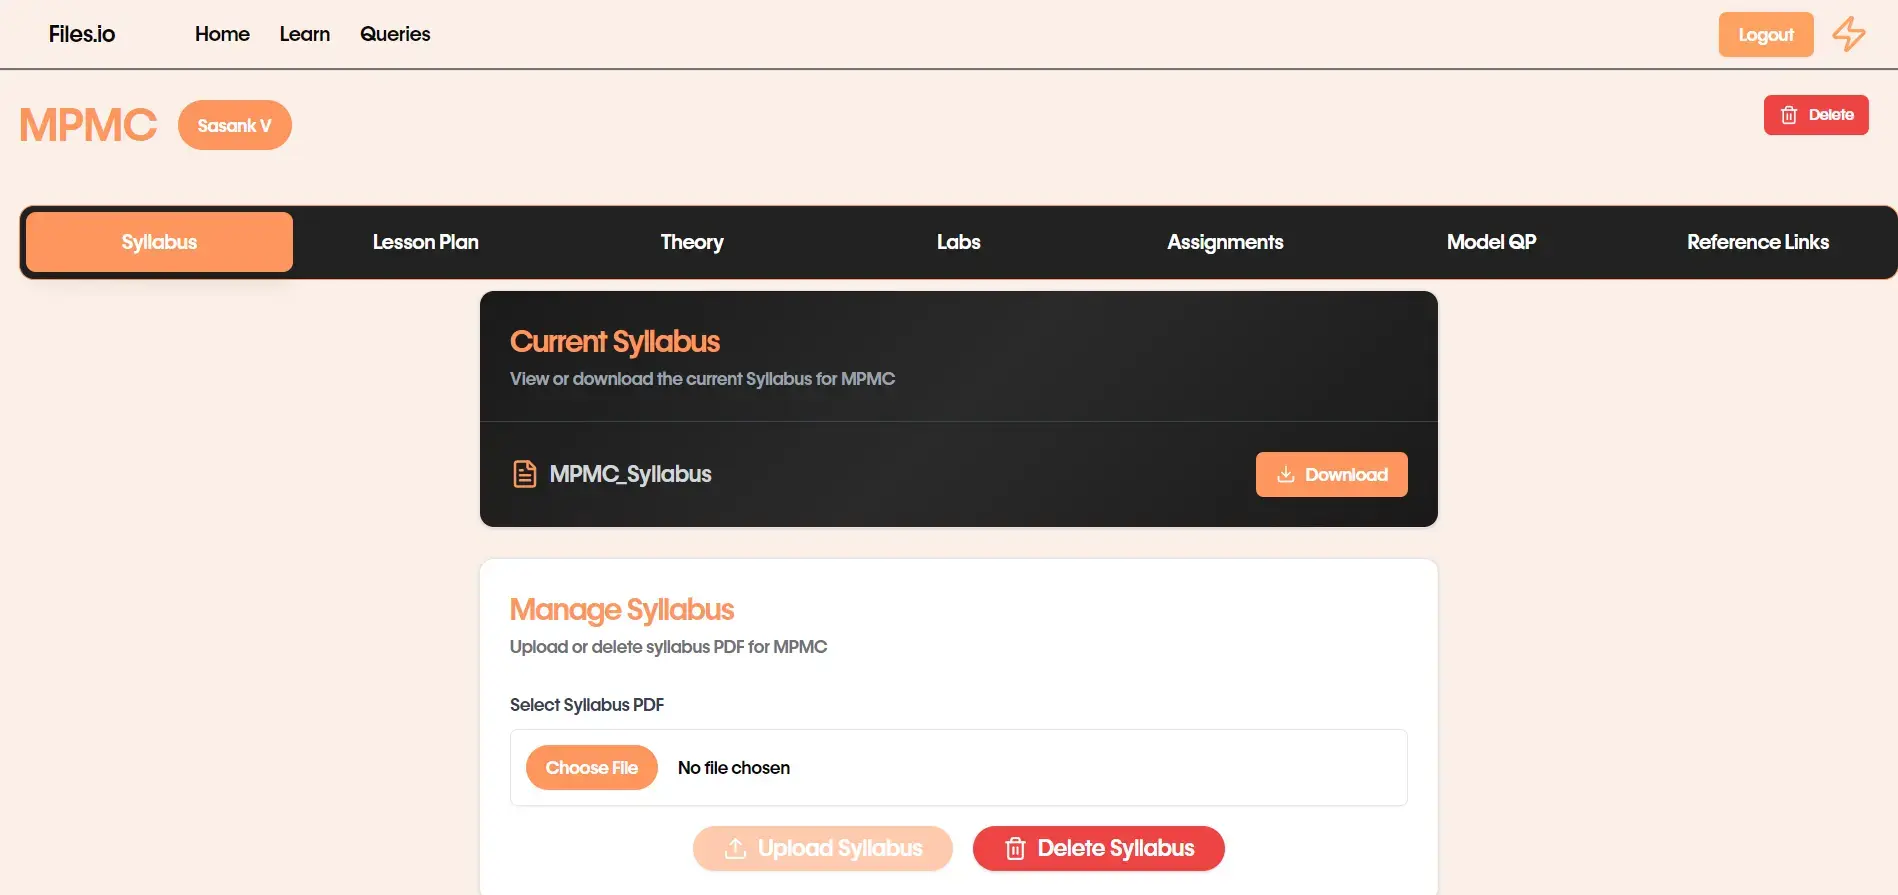
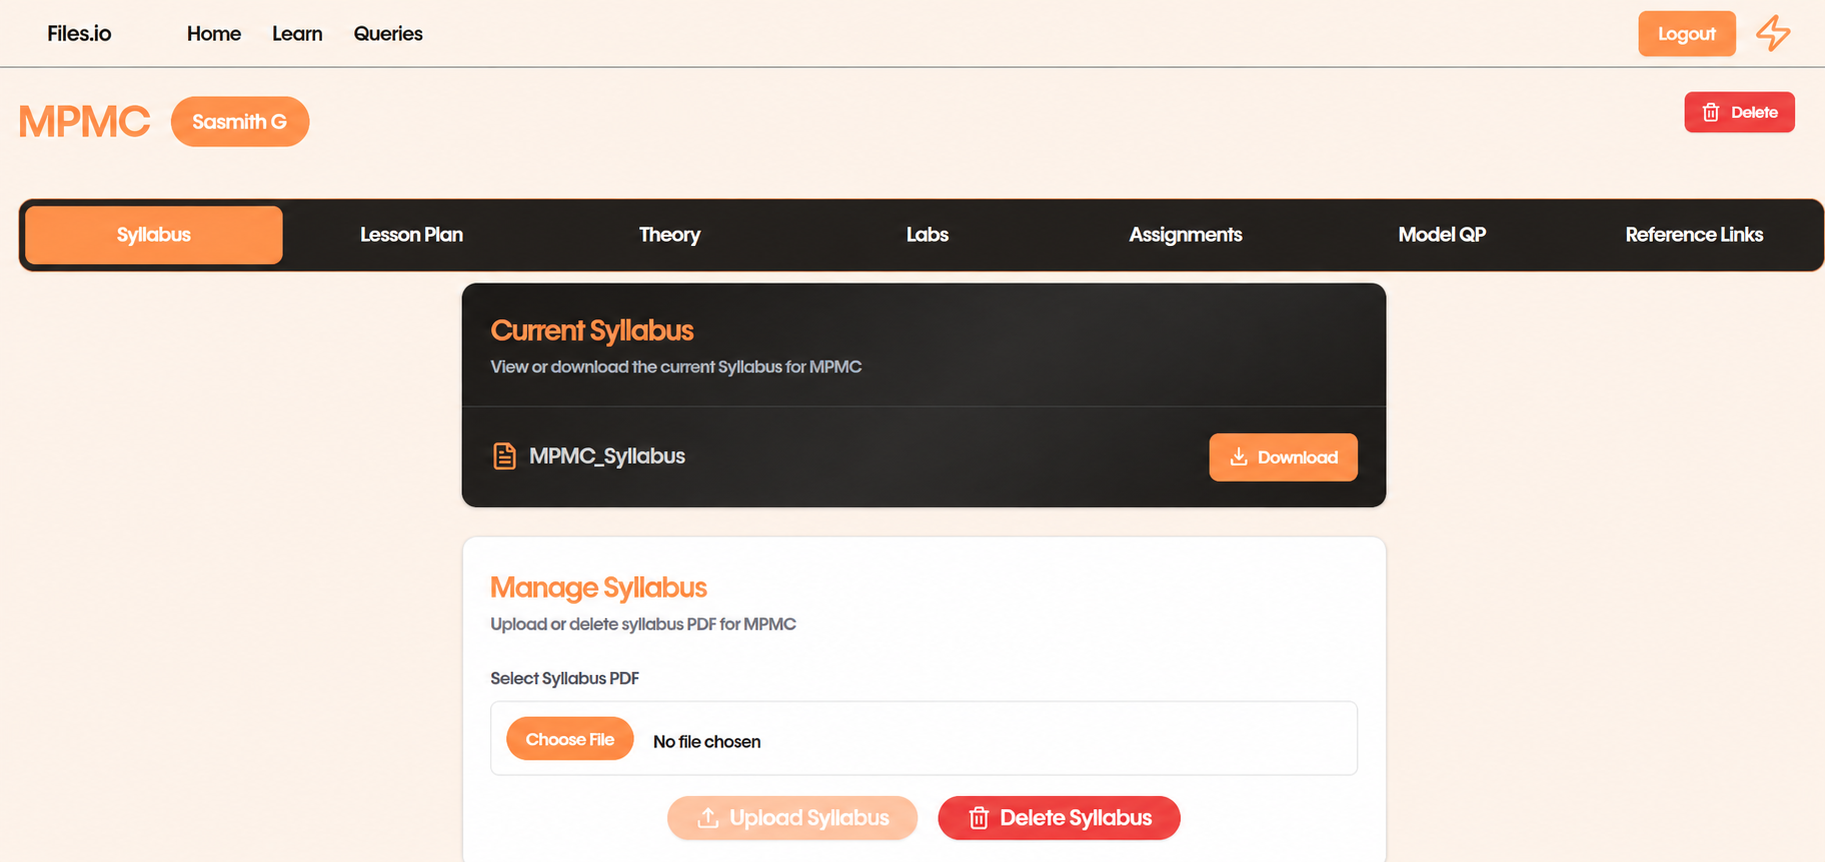
Use own MedGPT screenshots and update Files.io subject page image
Drop the old MedGPT landing image with placeholder stats; the Medical
Graph RAG landing is now the cover and the chat demo the second image.

diff --git a/src/data/projects.ts b/src/data/projects.ts
@@ -30,7 +30,8 @@ export const projects: Project[] = [
     id: "3",
     category: "AI Medical RAG System",
     title: "MedGPT",
-    secondImage: "/projects/3/landing.png",
+    cover: "/projects/3/landing.png",
+    secondImage: "/projects/3/demo.png",
     what: "MedGPT is a knowledge graph-augmented medical RAG system designed for factual medical question answering with reduced hallucinations. The platform constructs a knowledge graph from medical textbooks, stores embeddings in Pinecone, and uses Neo4j for graph-based retrieval, enabling multi-hop reasoning over medical knowledge.",
     why: "Built to address the challenge of hallucinations in medical AI systems by grounding responses in verified medical literature. The project combines semantic search with knowledge graph traversal to provide accurate, contextual medical information with proper citations.",
     how: "Developed using Next.js, FastAPI, Neo4j, Pinecone, and AWS (Amplify, EC2).\nImplemented knowledge graph construction pipeline with NER and entity extraction.\nIntegrated Gemini and Mistral APIs for multi-hop reasoning and response generation.\nUtilized NextAuth and DynamoDB for secure authentication and data management.",
@@ -45,7 +46,6 @@ export const projects: Project[] = [
       { icon: "/tech/neo4j.svg", name: "Neo4j" },
     ],
     gallery: [
-      "/projects/3/demo.png",
       "/projects/3/pipeline.png",
       "/projects/3/architecture.png",
     ],
